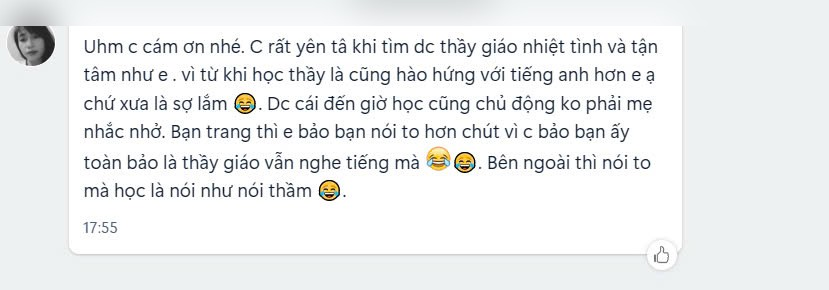
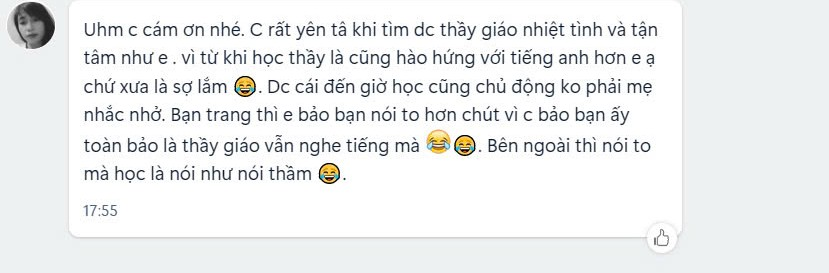
anh tin nhan PH: cat thanh ten thay vi lam mo; sua chu thich

diff --git a/index.html b/index.html
@@ -291,7 +291,7 @@ footer img{height:40px;width:auto;margin-bottom:8px}
 
 <section class="msg wrap" id="phu-huynh">
   <h2 class="h2 rv">Phụ huynh nhắn sau buổi học</h2>
-  <p class="lead rv">Tin nhắn thật của phụ huynh gửi giáo viên. Em chỉ làm mờ tên người gửi, không sửa nội dung. Bấm vào ảnh để đọc đầy đủ.</p>
+  <p class="lead rv">Tin nhắn thật của phụ huynh gửi giáo viên. Em đã che tên người gửi, không sửa nội dung. Bấm vào ảnh để đọc đầy đủ.</p>
   <div class="msgs">
     <figure class="rv"><a class="zoom" href="/tin-nhan-1.jpg" aria-label="Xem đầy đủ tin nhắn"><img src="/tin-nhan-1.jpg" alt="Tin nhắn phụ huynh cảm ơn sau buổi học" loading="lazy"></a></figure>
     <figure class="rv"><a class="zoom" href="/tin-nhan-2.jpg" aria-label="Xem đầy đủ tin nhắn"><img src="/tin-nhan-2.jpg" alt="Tin nhắn phụ huynh kể con tiến bộ" loading="lazy"></a></figure>

diff --git a/moi/index.html b/moi/index.html
@@ -291,7 +291,7 @@ footer img{height:40px;width:auto;margin-bottom:8px}
 
 <section class="msg wrap" id="phu-huynh">
   <h2 class="h2 rv">Phụ huynh nhắn sau buổi học</h2>
-  <p class="lead rv">Tin nhắn thật của phụ huynh gửi giáo viên. Em chỉ làm mờ tên người gửi, không sửa nội dung. Bấm vào ảnh để đọc đầy đủ.</p>
+  <p class="lead rv">Tin nhắn thật của phụ huynh gửi giáo viên. Em đã che tên người gửi, không sửa nội dung. Bấm vào ảnh để đọc đầy đủ.</p>
   <div class="msgs">
     <figure class="rv"><a class="zoom" href="/tin-nhan-1.jpg" aria-label="Xem đầy đủ tin nhắn"><img src="/tin-nhan-1.jpg" alt="Tin nhắn phụ huynh cảm ơn sau buổi học" loading="lazy"></a></figure>
     <figure class="rv"><a class="zoom" href="/tin-nhan-2.jpg" aria-label="Xem đầy đủ tin nhắn"><img src="/tin-nhan-2.jpg" alt="Tin nhắn phụ huynh kể con tiến bộ" loading="lazy"></a></figure>
